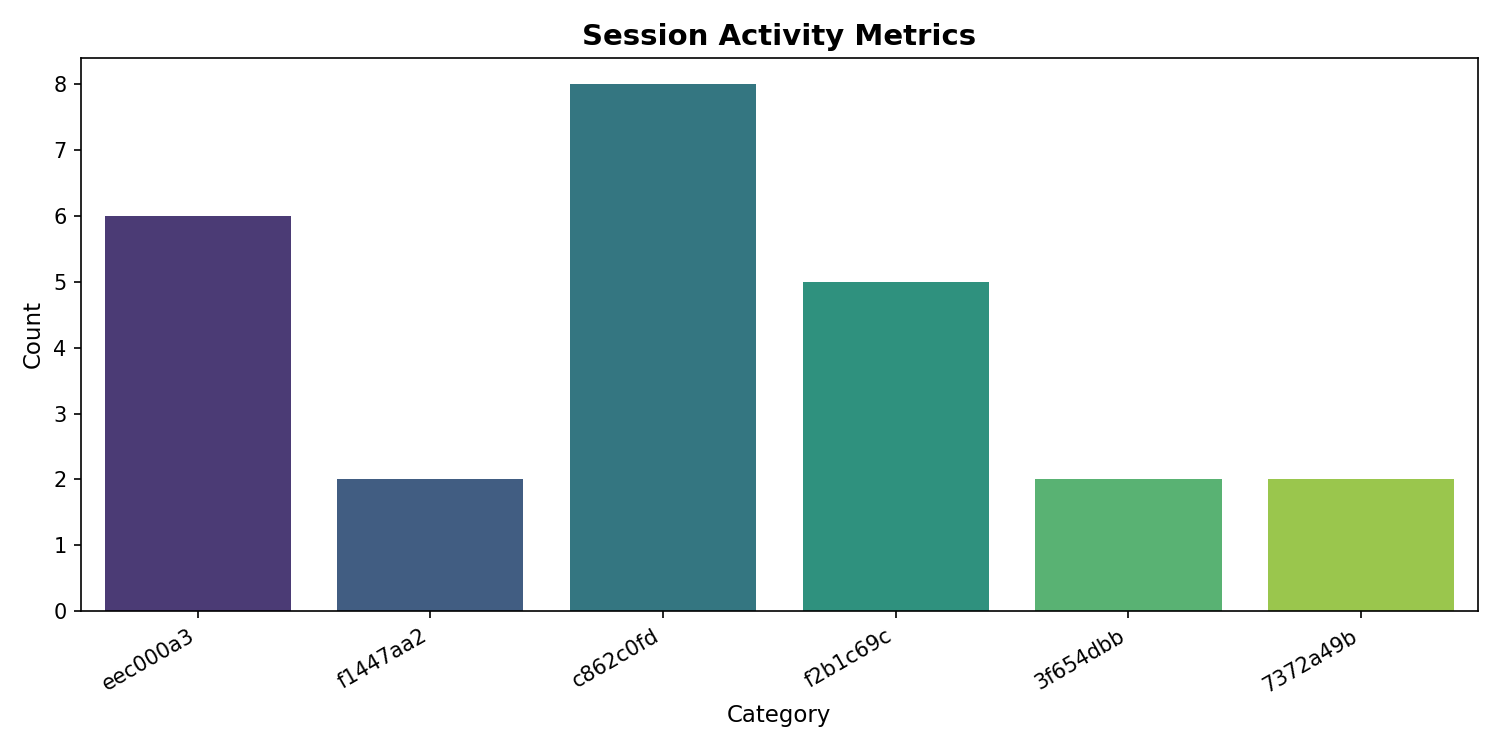
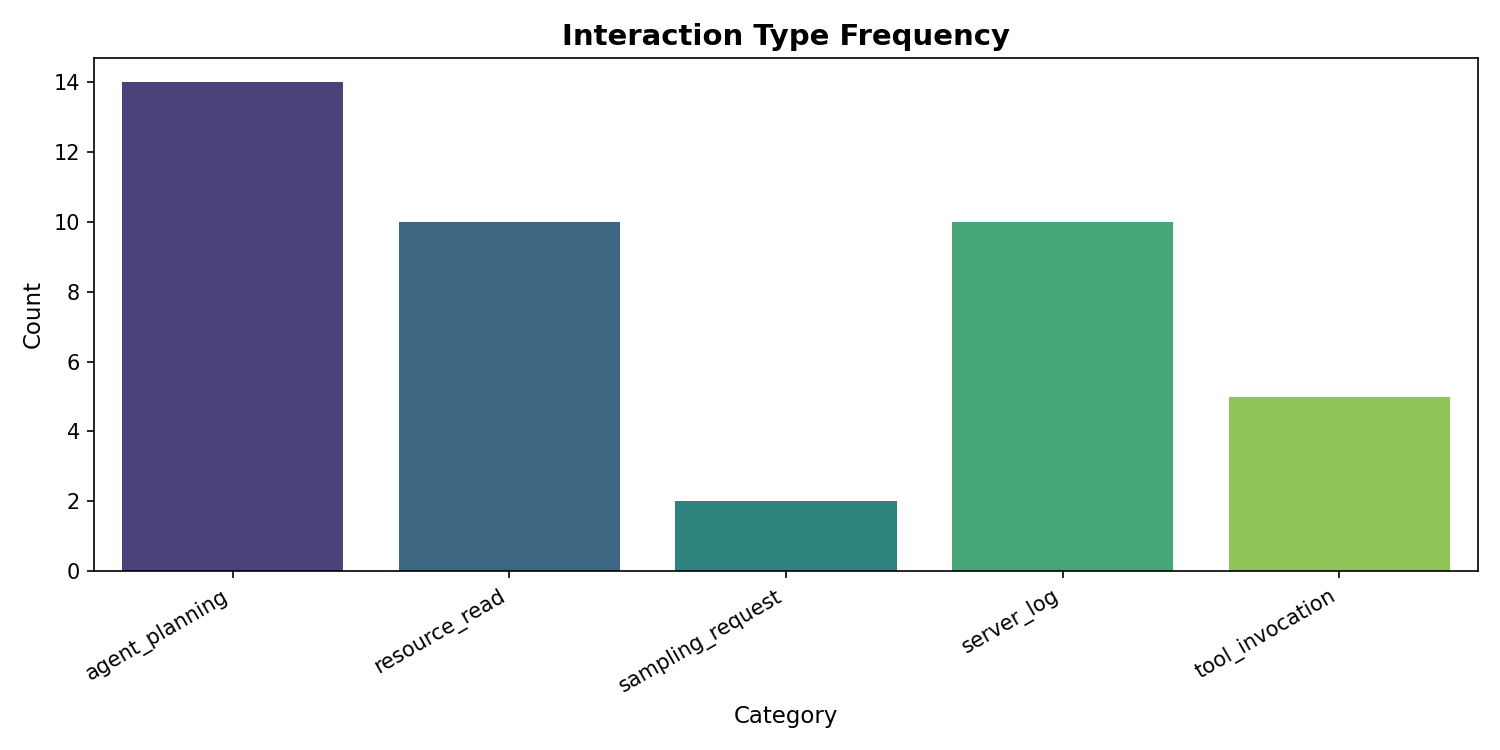
fix: resolve mentor feedback and add execution screenshots
- fix reflection_tool log message to reference tool invocation not sampling
- move sampling_handler inside run_agent to access store and session_id
- add sampling log entry inside sampling_handler with correct namespace
- move server_log_handler inside run_agent to write server logs to SQLite store
- add component="server" to all server log entries in structured store
- add ctx.info() calls to agricultural_knowledge resource for server log forwarding
- fix server logs now appear as [SERVER] entries in mcp_agent_system.log
- fix store now contains logs with component="server" from server_log_handler
- add screenshots/ directory with 3 chronological execution screenshots
- screenshot 01: MCP server running (09:41 AM)
- screenshot 02: agent client processing query with CLIENT/SERVER logs (09:44 AM)
- screenshot 03: Streamlit dashboard Neo4j sync complete (10:32 AM)
- update README.md with screenshots section referencing all three images

diff --git a/agent_client/main.py b/agent_client/main.py
@@ -125,24 +125,6 @@ async def sampling_handler(
     )
 
 
-# Server log handler
-async def server_log_handler(log_message: LogMessage) -> None:
-    level = str(log_message.level).upper()
-    message = (
-        log_message.data
-        if isinstance(log_message.data, str)
-        else str(log_message.data)
-    )
-    if level == "ERROR":
-        server_logger.error(message)
-    elif level == "WARNING":
-        server_logger.warning(message)
-    elif level == "DEBUG":
-        server_logger.debug(message)
-    else:
-        server_logger.info(message)
-
-
 async def run_agent(user_query: str):
     session_id = str(uuid.uuid4())
     logger.info(f"Agent started. Session: {session_id} | Query: '{user_query}'")
@@ -165,6 +147,36 @@ async def run_agent(user_query: str):
             mcp_interaction_type="agent_planning",
             content=f"Agent session started. User query: {user_query}",
         )
+
+        # Define server log handler INSIDE run_agent
+        async def server_log_handler(log_message: LogMessage) -> None:
+            level = str(log_message.level).upper()
+            message = (
+                log_message.data
+                if isinstance(log_message.data, str)
+                else str(log_message.data)
+            )
+
+            # Write to flat log file
+            if level == "ERROR":
+                server_logger.error(message)
+            elif level == "WARNING":
+                server_logger.warning(message)
+            elif level == "DEBUG":
+                server_logger.debug(message)
+            else:
+                server_logger.info(message)
+
+            # Write to SQLite store with component="server"
+            await write_structured_log(
+                store=store,
+                session_id=session_id,
+                namespace=("logs", "mcp", "server"),
+                mcp_interaction_type="server_log",
+                content=message,
+                component="server",
+                level=level,
+            )
 
         async with Client(
             "http://localhost:8000/mcp",
@@ -241,9 +253,9 @@ async def run_agent(user_query: str):
                 await write_structured_log(
                     store=store,
                     session_id=session_id,
-                    namespace=("logs", "mcp", "sampling"),
-                    mcp_interaction_type="sampling_request",
-                    content=f"MCP Sampling completed for reflection. Query: {original_query}",
+                    namespace=("logs", "mcp", "server", "tools"),
+                    mcp_interaction_type="tool_invocation",
+                    content=f"reflect_on_answer tool response received. Query: {original_query}",
                 )
                 if result.content:
                     block = result.content[0]

diff --git a/mcp_server/main.py b/mcp_server/main.py
@@ -270,10 +270,16 @@ async def agricultural_knowledge(query: str, ctx: Context) -> str:
     Tree-of-Thought evaluation (LLM-based) → Tavily fallback if needed.
     """
     logger.info(f"CRAG resource queried with: '{query}'")
+    await ctx.info(f"CRAG resource queried: '{query}'") 
 
     expanded_queries = expand_query(query)
+    await ctx.info(f"Expanded query into {len(expanded_queries)} search vectors")
+    
     retrieved_chunks = hierarchical_search(expanded_queries)
+    await ctx.info(f"Level-1 search: {len(retrieved_chunks)} chunks retrieved") 
+
     relevant_chunks = await tot_evaluate(retrieved_chunks, query, ctx)
+    await ctx.info(f"Level-2 search: {len(relevant_chunks)} chunks after ToT filter")
 
     # Tavily fallback if ToT filtered everything out
     if not relevant_chunks:
@@ -285,6 +291,7 @@ async def agricultural_knowledge(query: str, ctx: Context) -> str:
                 for r in tavily_results.get("results", [])
             )
             logger.info("Tavily fallback successful")
+            await ctx.info("Tavily fallback triggered and successful")
             return f"[FALLBACK, Web Results]\n\n{fallback_content}"
         except Exception as e:
             logger.error(f"Tavily fallback failed: {e}")
@@ -300,6 +307,7 @@ async def agricultural_knowledge(query: str, ctx: Context) -> str:
         )
 
     logger.info(f"CRAG resource returning {len(output)} relevant results")
+    await ctx.info(f"CRAG returning {len(output)} relevant results")
     return "\n\n".join(output)
 
 

diff --git a/README.md b/README.md
@@ -206,3 +206,16 @@ Map session <session_id> to Neo4j
 | `mcp_agent_system.log` | Dual-stream log from agent client runs |
 | `mcp_agent_log.db` | SQLite vector store with structured log entries |
 | `analysis_dashboard/analysis_agent.log` | Log Analysis Agent execution log |
+
+## Screenshots
+
+### Terminal 1 — MCP Server Running
+![MCP Server](screenshots/mcp_server.png)
+
+### Terminal 2 — Agent Client Processing Query
+![Agent Client](screenshots/agent_client.png)
+
+### Terminal 3 — Streamlit Dashboard with Neo4j Sync
+![Streamlit Dashboard](screenshots/analysis_dashboard1.png)
+![Streamlit Dashboard](screenshots/analysis_dashboard2.png)
+![Streamlit Dashboard](screenshots/analysis_dashboard3.png)
